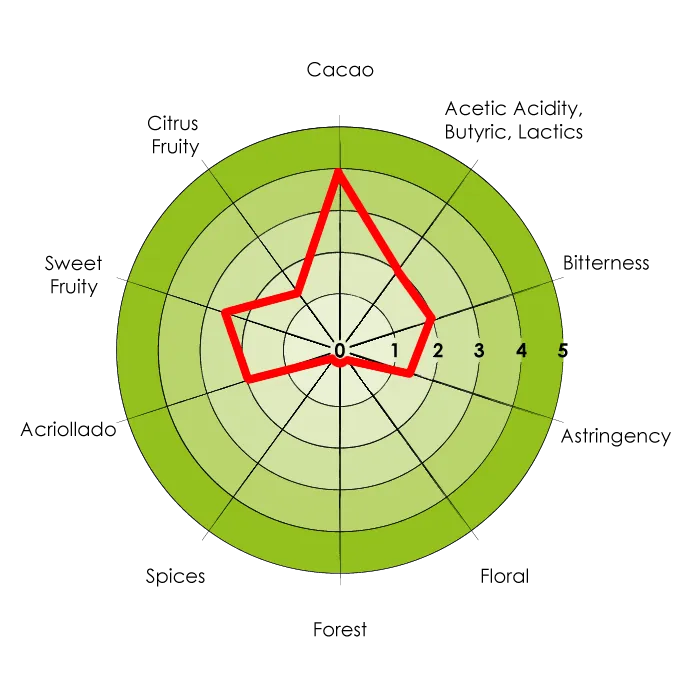
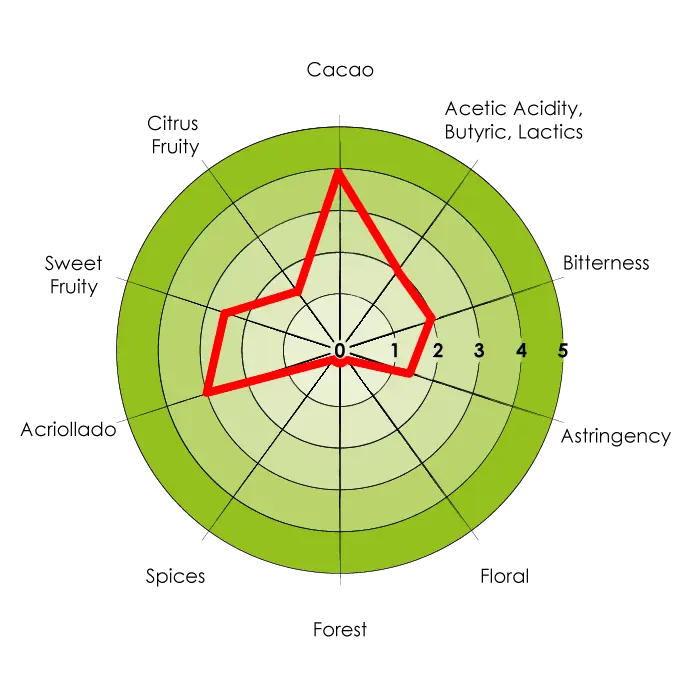
fix: cambio en las imagenes de sur del lago, barinas y barlovento

Changed region(s): [[0.27, 0.39, 0.48, 0.57]]

diff --git a/src/data/surDelLago/surDelLago-images.ts b/src/data/surDelLago/surDelLago-images.ts
@@ -6,8 +6,8 @@ import EquipoCata from '@/images/surdellago/equipodecata2.webp';
 import CuencaCacao from '@/images/surdellago/equipodecata3.webp';
 
 import RuedaSabores from '@/images/porcelana/ruedadesabores.webp';
-import MapaSensorial from '@/images/barlovento/mapasensorialEn.webp';
-import MapaSensorialEn from '@/images/barlovento/mapasensorialEn.webp';
+import MapaSensorial from '@/images/surdellago/mapasensorialEn.webp';
+import MapaSensorialEn from '@/images/surdellago/mapasensorialEn.webp';
 
 import TipoDeCacaoOne from '@/images/porcelana/tipodecacao.webp';
 import TipoDeCacaoTwo from '@/images/porcelana/tipodecacao2.webp';

diff --git a/src/data/barinas/barinas-images.ts b/src/data/barinas/barinas-images.ts
@@ -6,8 +6,8 @@ import EquipoCata from '@/images/barinas/equipodecata2.webp';
 import CuencaCacao from '@/images/barinas/equipodecata3.webp';
 
 import RuedaSabores from '@/images/barlovento/ruedaDeSabores.webp';
-import MapaSensorial from '@/images/barlovento/mapasensorialEn.webp';
-import MapaSensorialEn from '@/images/barlovento/mapasensorialEn.webp';
+import MapaSensorial from '@/images/barinas/mapasensorialEn.webp';
+import MapaSensorialEn from '@/images/barinas/mapasensorialEn.webp';
 
 import TipoDeCacaoOne from '@/images/surdellago/placeholder.webp';
 import TipoDeCacaoTwo from '@/images/surdellago/placeholder.webp';
